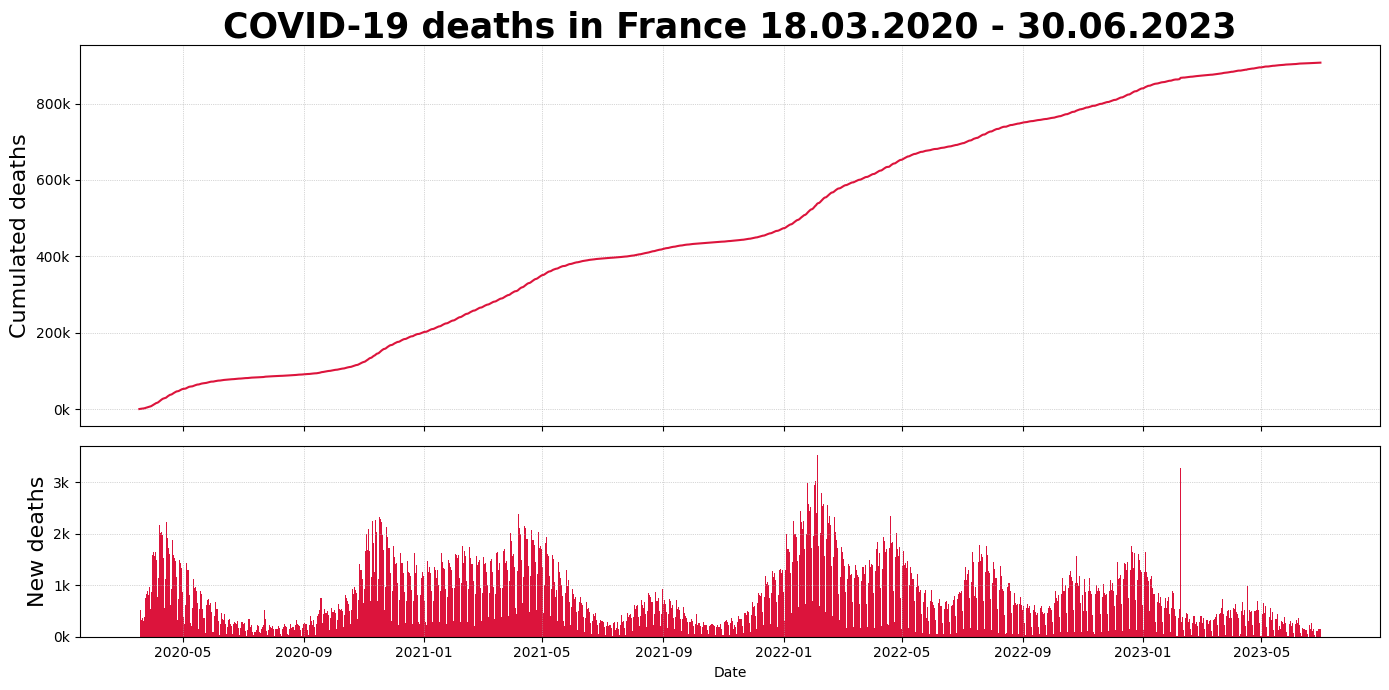
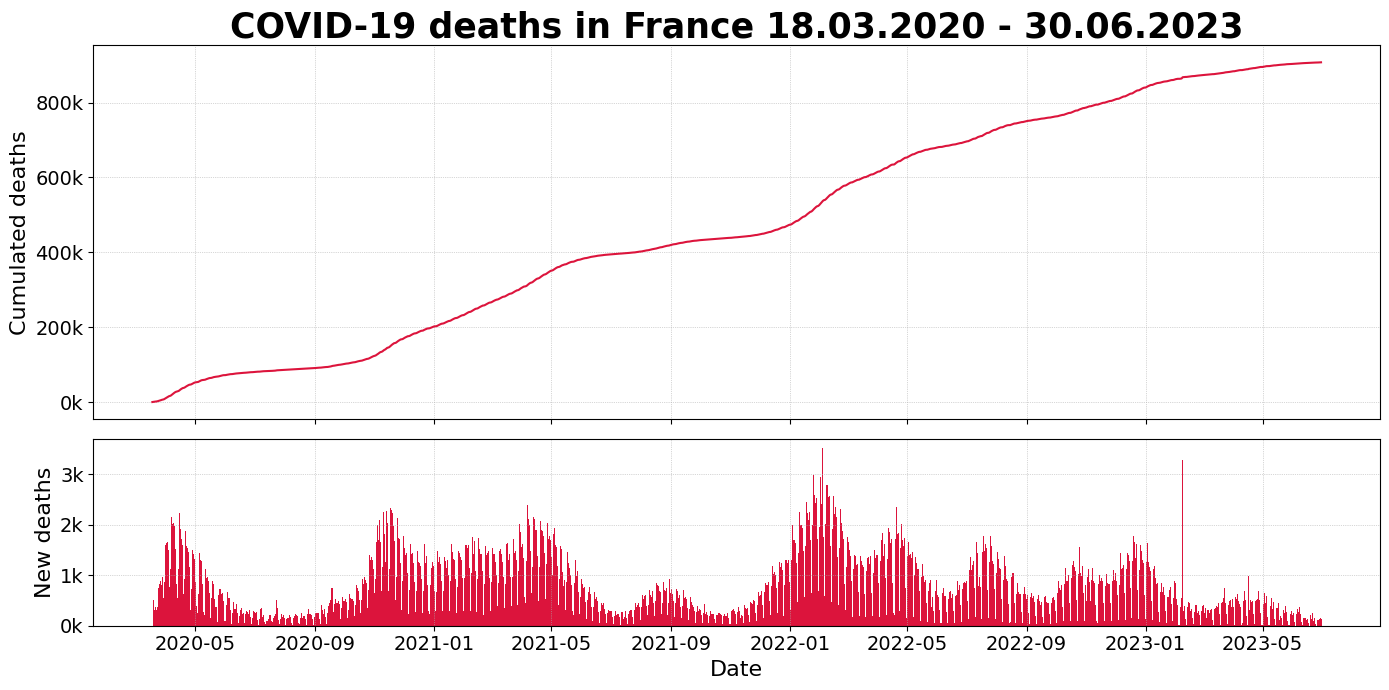
small changes

diff --git a/scripts/duo_hosp.py b/scripts/duo_hosp.py
@@ -19,16 +19,23 @@ fig, (ax1, ax2) = plt.subplots(2, 1, figsize=(14, 7), sharex=True, gridspec_kw={
 ax1.plot(df_fr['date'], df_fr['cum_hosp'], color='orange')
 ax1.set_ylabel('Cumulated hospitalizations', fontsize=16)
 ax1.grid(True, which='both', linestyle=':', linewidth=0.5)
-ax1.set_title('COVID-19 hospitalizations in France {}'.format(df_fr['date'].min().strftime('%d.%m.%Y'), df_fr['date'].max().strftime('%d.%m.%Y')), fontsize=25, fontweight='bold')
+ax1.set_title('COVID-19 hospitalizations in France {} - {}'.format(        df_fr['date'].min().strftime('%d.%m.%Y'),
+        df_fr['date'].max().strftime('%d.%m.%Y')
+    ), fontsize=25, fontweight='bold')
 ax1.get_yaxis().set_major_formatter(mtick.FuncFormatter(lambda x, _: f'{int(x/1000)}k'))
 ax1.xaxis.set_visible(True)
+ax1.tick_params(axis='both', labelsize=14)
+
 
 # lower plot
 ax2.bar(df_fr['date'], df_fr['incid_hosp'], color='orange', width=1)
 ax2.set_ylabel('New hospitalizations', fontsize=16)
+ax2.set_xlabel('Date', fontsize=16)
 ax2.grid(True, which='both', linestyle=':', linewidth=0.5)
 ax2.set_xlabel('Date')
 ax2.get_yaxis().set_major_formatter(mtick.FuncFormatter(lambda x, _: f'{int(x/1000)}k'))
+ax2.tick_params(axis='both', labelsize=14)
+
 
 plt.tight_layout()
 # plt.show()

diff --git a/scripts/duo_death.py b/scripts/duo_death.py
@@ -28,13 +28,17 @@ ax1.set_title(
 )
 ax1.get_yaxis().set_major_formatter(mtick.FuncFormatter(lambda x, _: f'{int(x/1000)}k'))
 ax1.xaxis.set_visible(True)
+ax1.tick_params(axis='both', labelsize=14)
 
 # lower plot
 ax2.bar(df_fr['date'], df_fr['incid_rad'], color='crimson', width=1)
 ax2.set_ylabel('New deaths', fontsize=16)
+ax2.set_xlabel('Date', fontsize=16)
 ax2.grid(True, which='both', linestyle=':', linewidth=0.5)
 ax2.set_xlabel('Date')
 ax2.get_yaxis().set_major_formatter(mtick.FuncFormatter(lambda x, _: f'{int(x/1000)}k'))
+ax2.tick_params(axis='both', labelsize=14)
+
 
 plt.tight_layout()
 plt.savefig('plots/deaths_france.png', bbox_inches='tight')
